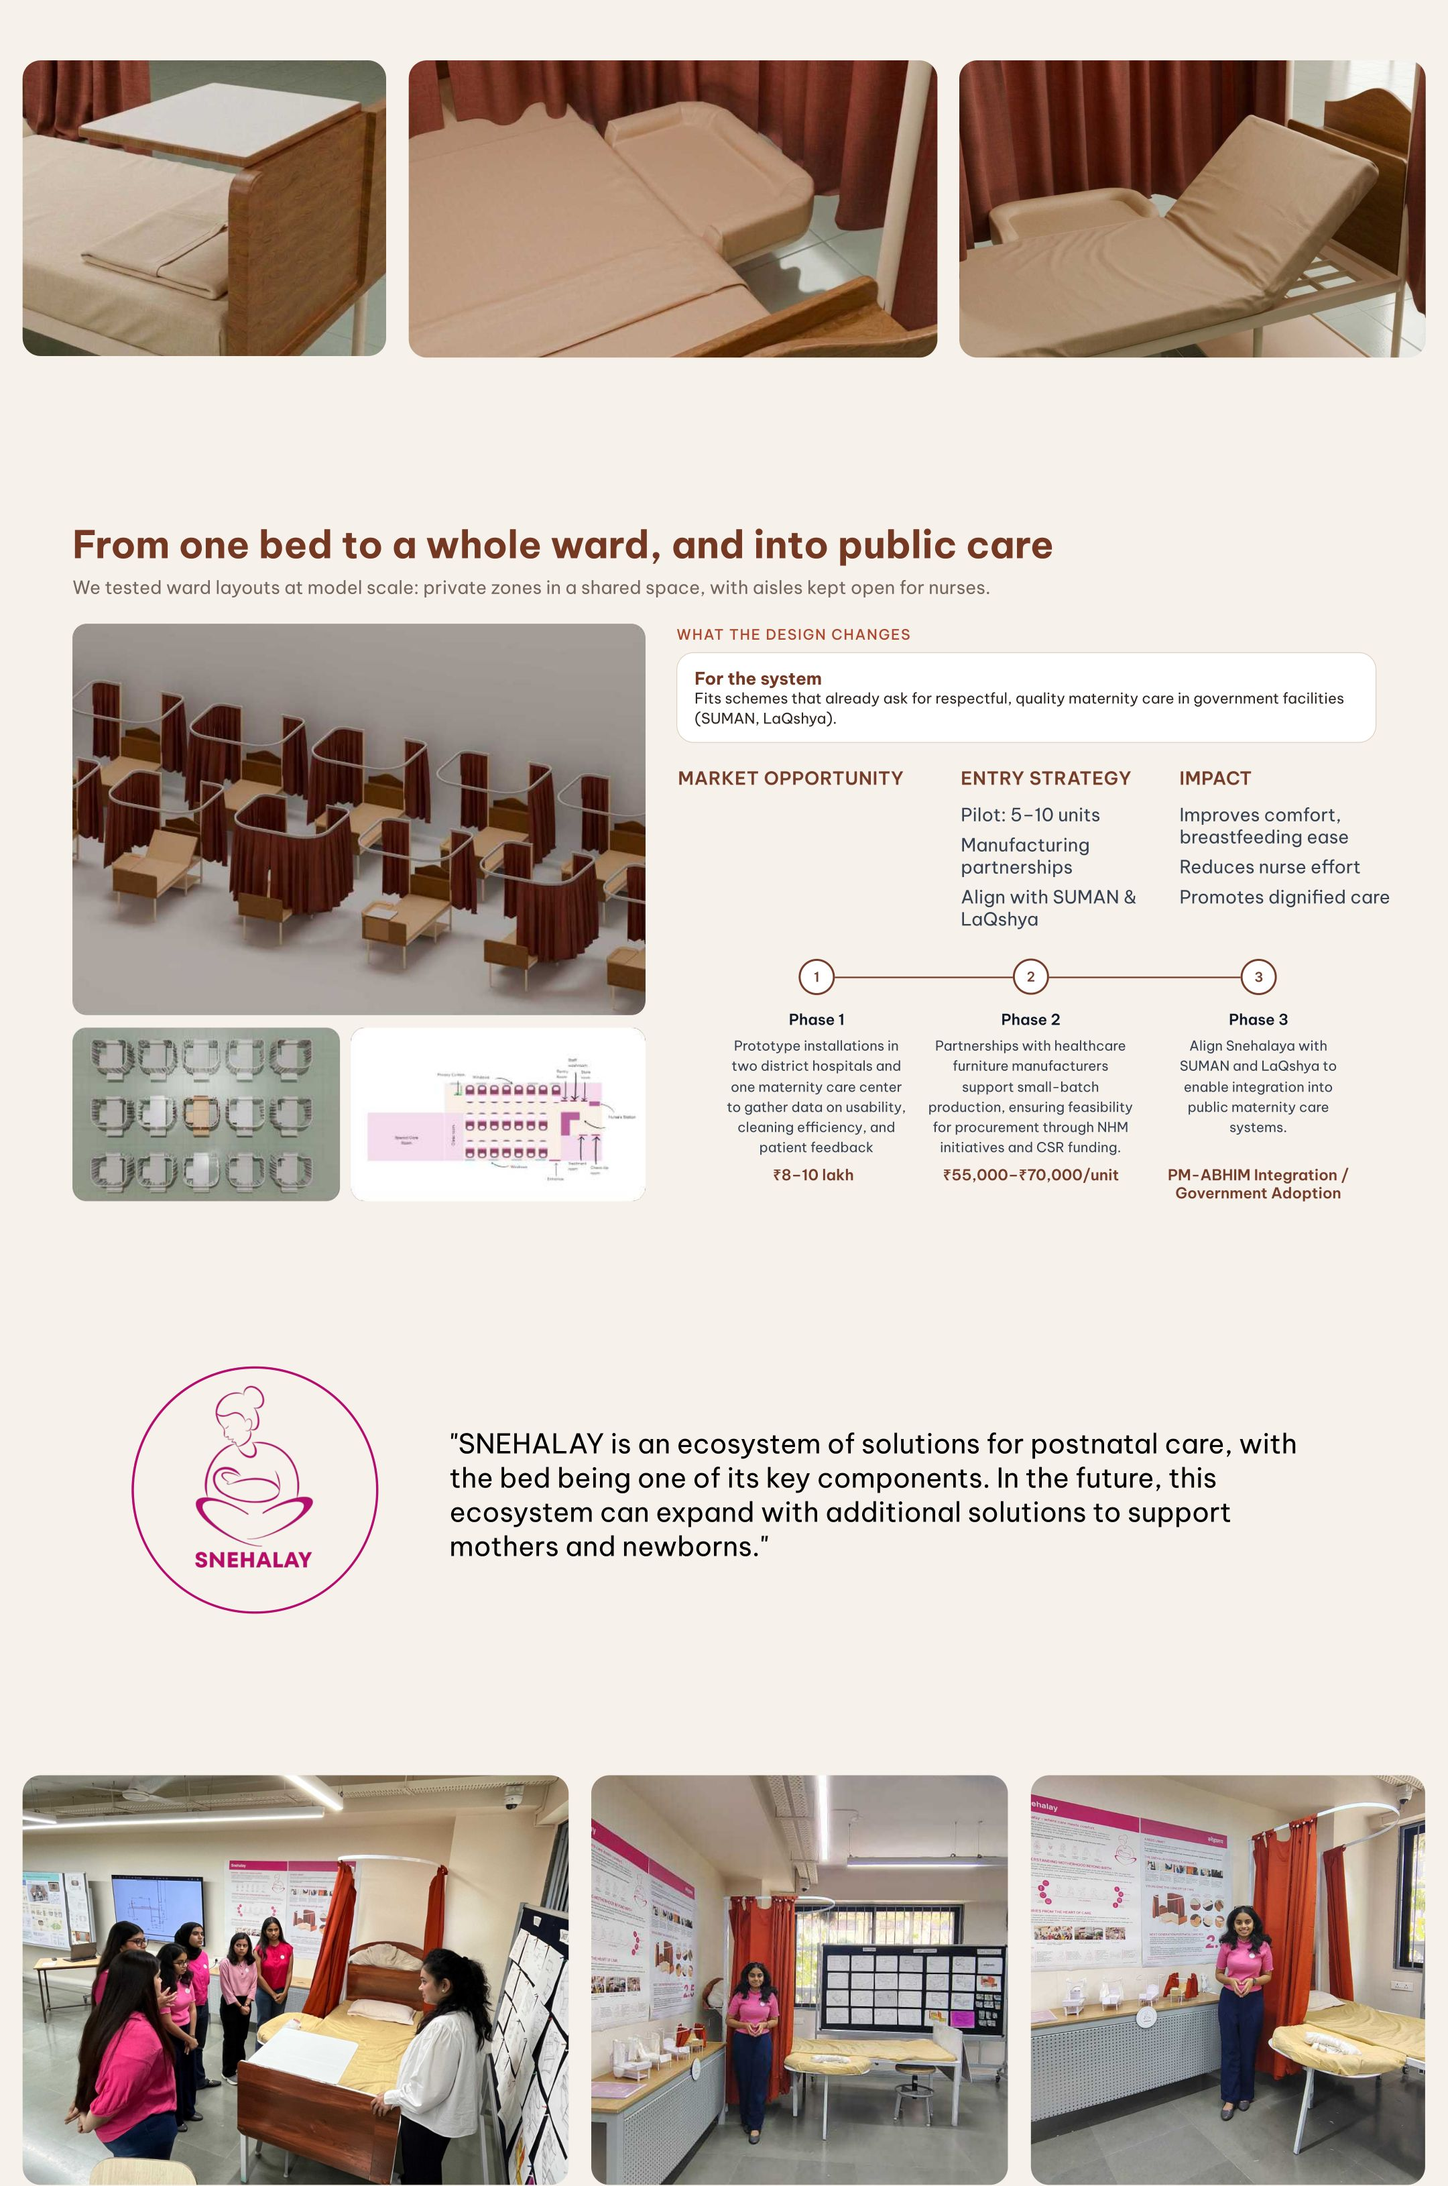
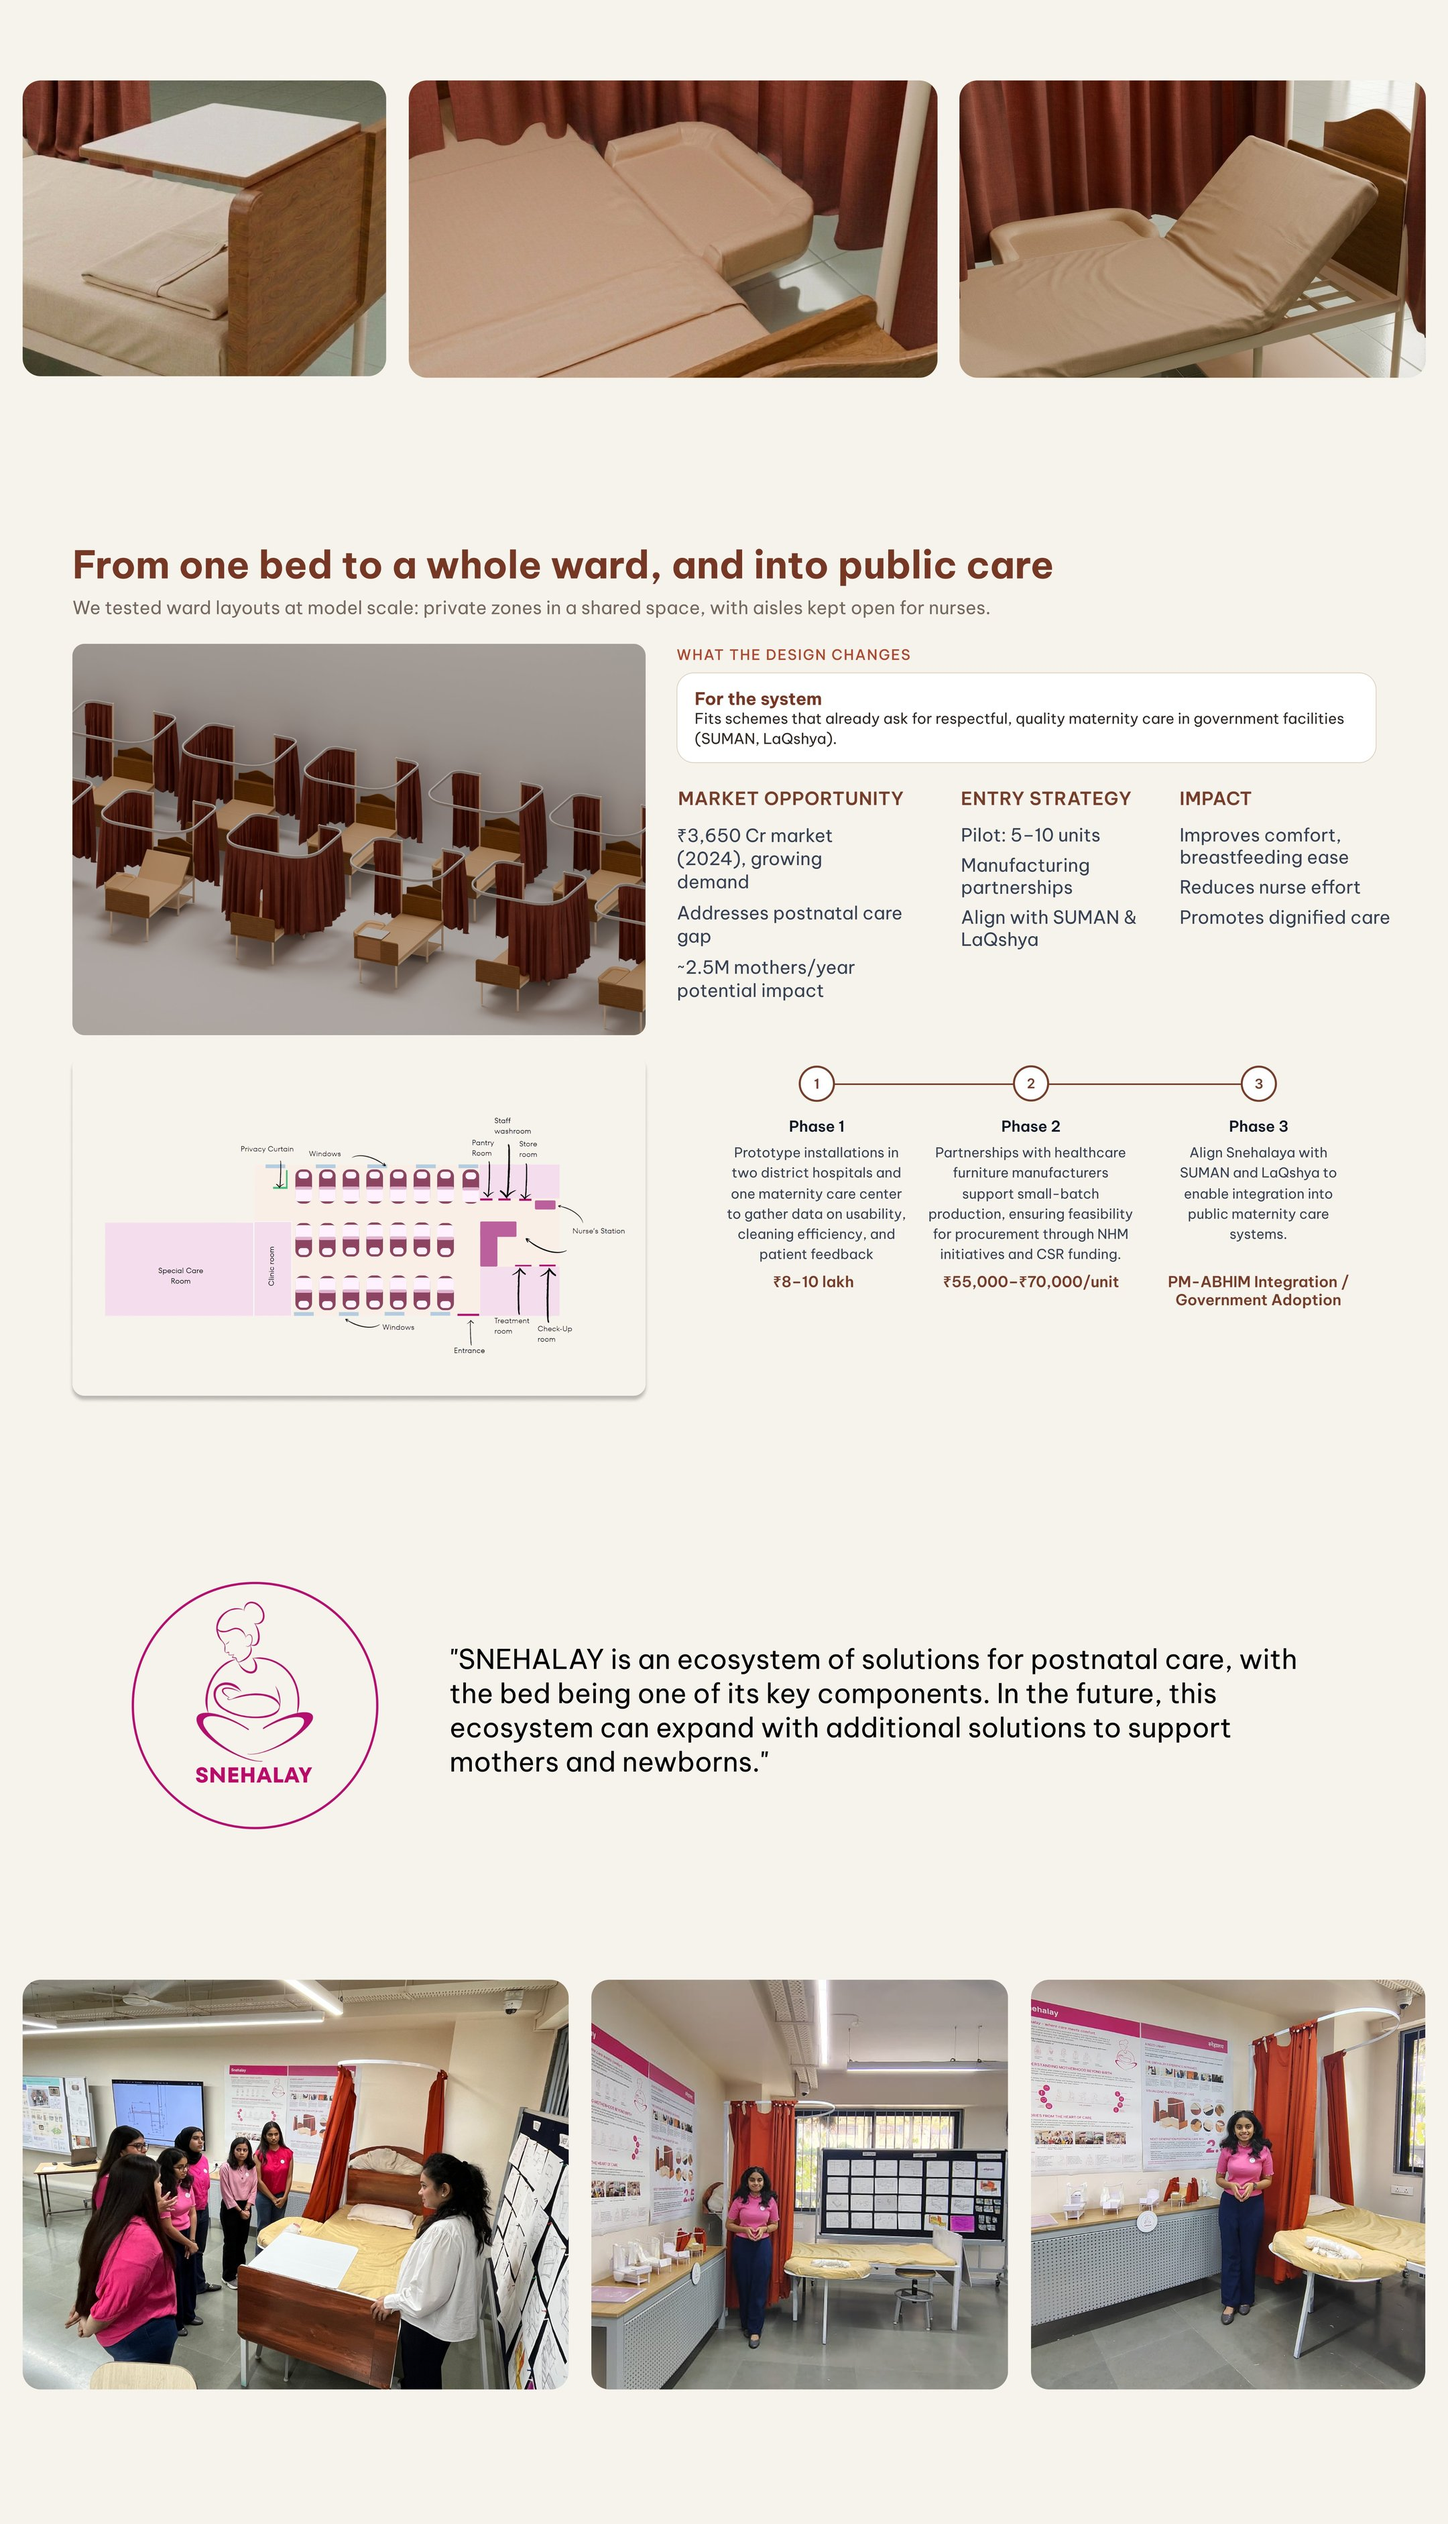
Update Snehalay section image
Claude-Session: https://claude.ai/code/session_01AdcXdKRbm6CWXvQJ2ocSku

diff --git a/projects/snehalay.html b/projects/snehalay.html
@@ -38,7 +38,7 @@
 <a class="slide-link" style="left:25.4167%;top:98.7857%;width:60.4167%;height:0.2381%" href="https://drive.google.com/drive/folders/1zgO0xpNmZdOL_thtw3po_46xjADnTxzn?usp=sharing" target="_blank" rel="noopener" aria-label="Open the roleplay video folder on Google Drive (opens in a new tab)"></a></div>
 <div class="video-block"><video controls preload="metadata" playsinline poster="../videos/role-play-poster.jpg" aria-label="Roleplay video: a day in the ward on the full-size mock-up" width="864" height="480"><source src="../videos/role-play.mp4" type="video/mp4">Your browser cannot play this video. <a href="../videos/role-play.mp4">Download the roleplay video</a>.</video></div>
 <div class="art"><img src="../images/snehalay/part-06.jpg" alt="Snehalay: Healthcare – project page, part 6 of 7" width="2160" height="2550" loading="lazy" decoding="async">
-<img src="../images/snehalay/part-07.jpg" alt="Snehalay: Healthcare – project page, part 7 of 7" width="2160" height="3260" loading="lazy" decoding="async">
+<img src="../images/snehalay/part-07.jpg" alt="Snehalay: Healthcare – project page, part 7 of 7" width="2160" height="3764" loading="lazy" decoding="async">
 </div>
 <nav class="next-row" aria-label="More projects">
 <a class="next-card" href="pratibimb.html"><span class="eyebrow">Next project</span><span class="name">Pratibimb: Planter</span></a>
